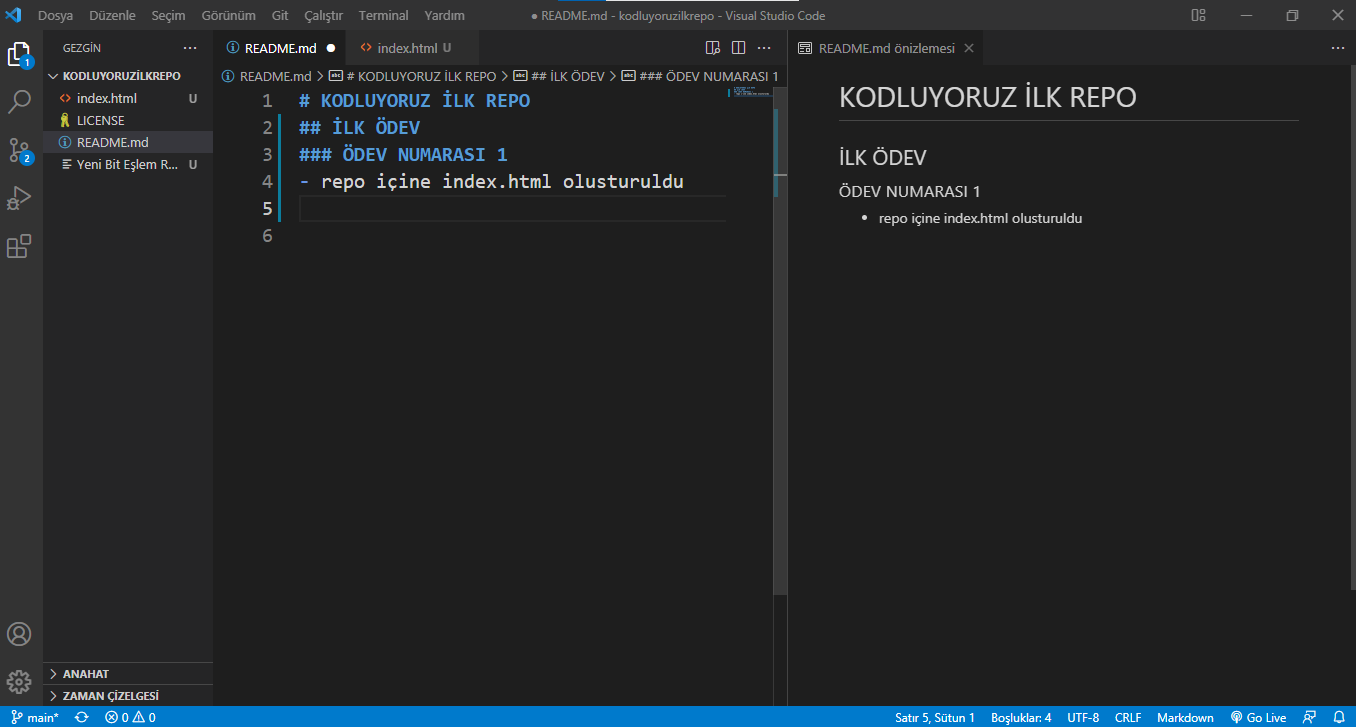
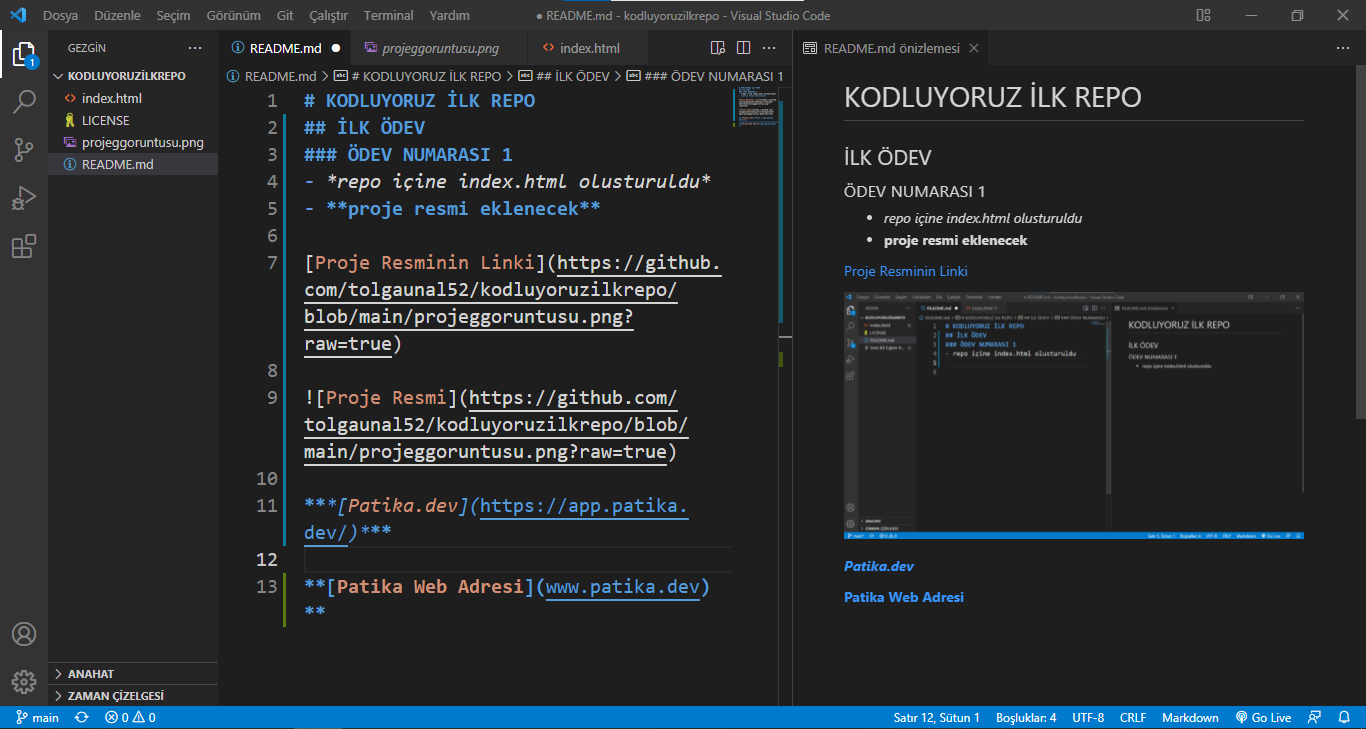
Son Düzenleme

diff --git a/index.html b/index.html
@@ -1,0 +1,1 @@
+<title>Tolga Ünal</title>

diff --git a/README.md b/README.md
@@ -1,2 +1,13 @@
 # KODLUYORUZ İLK REPO
-Kodluyoruz Eğitimi kapsamında açtığım ilk repo
+## İLK ÖDEV
+### ÖDEV NUMARASI 1
+- *repo içine index.html olusturuldu*
+- **proje resmi eklenecek**
+
+[Proje Resminin Linki](https://github.com/tolgaunal52/kodluyoruzilkrepo/blob/main/projeggoruntusu.png?raw=true)
+
+![Proje Resmi](https://github.com/tolgaunal52/kodluyoruzilkrepo/blob/main/projeggoruntusu.png?raw=true)
+
+***[Patika.dev](https://app.patika.dev/)***
+
+**[Patika Web Adresi](www.patika.dev)**
